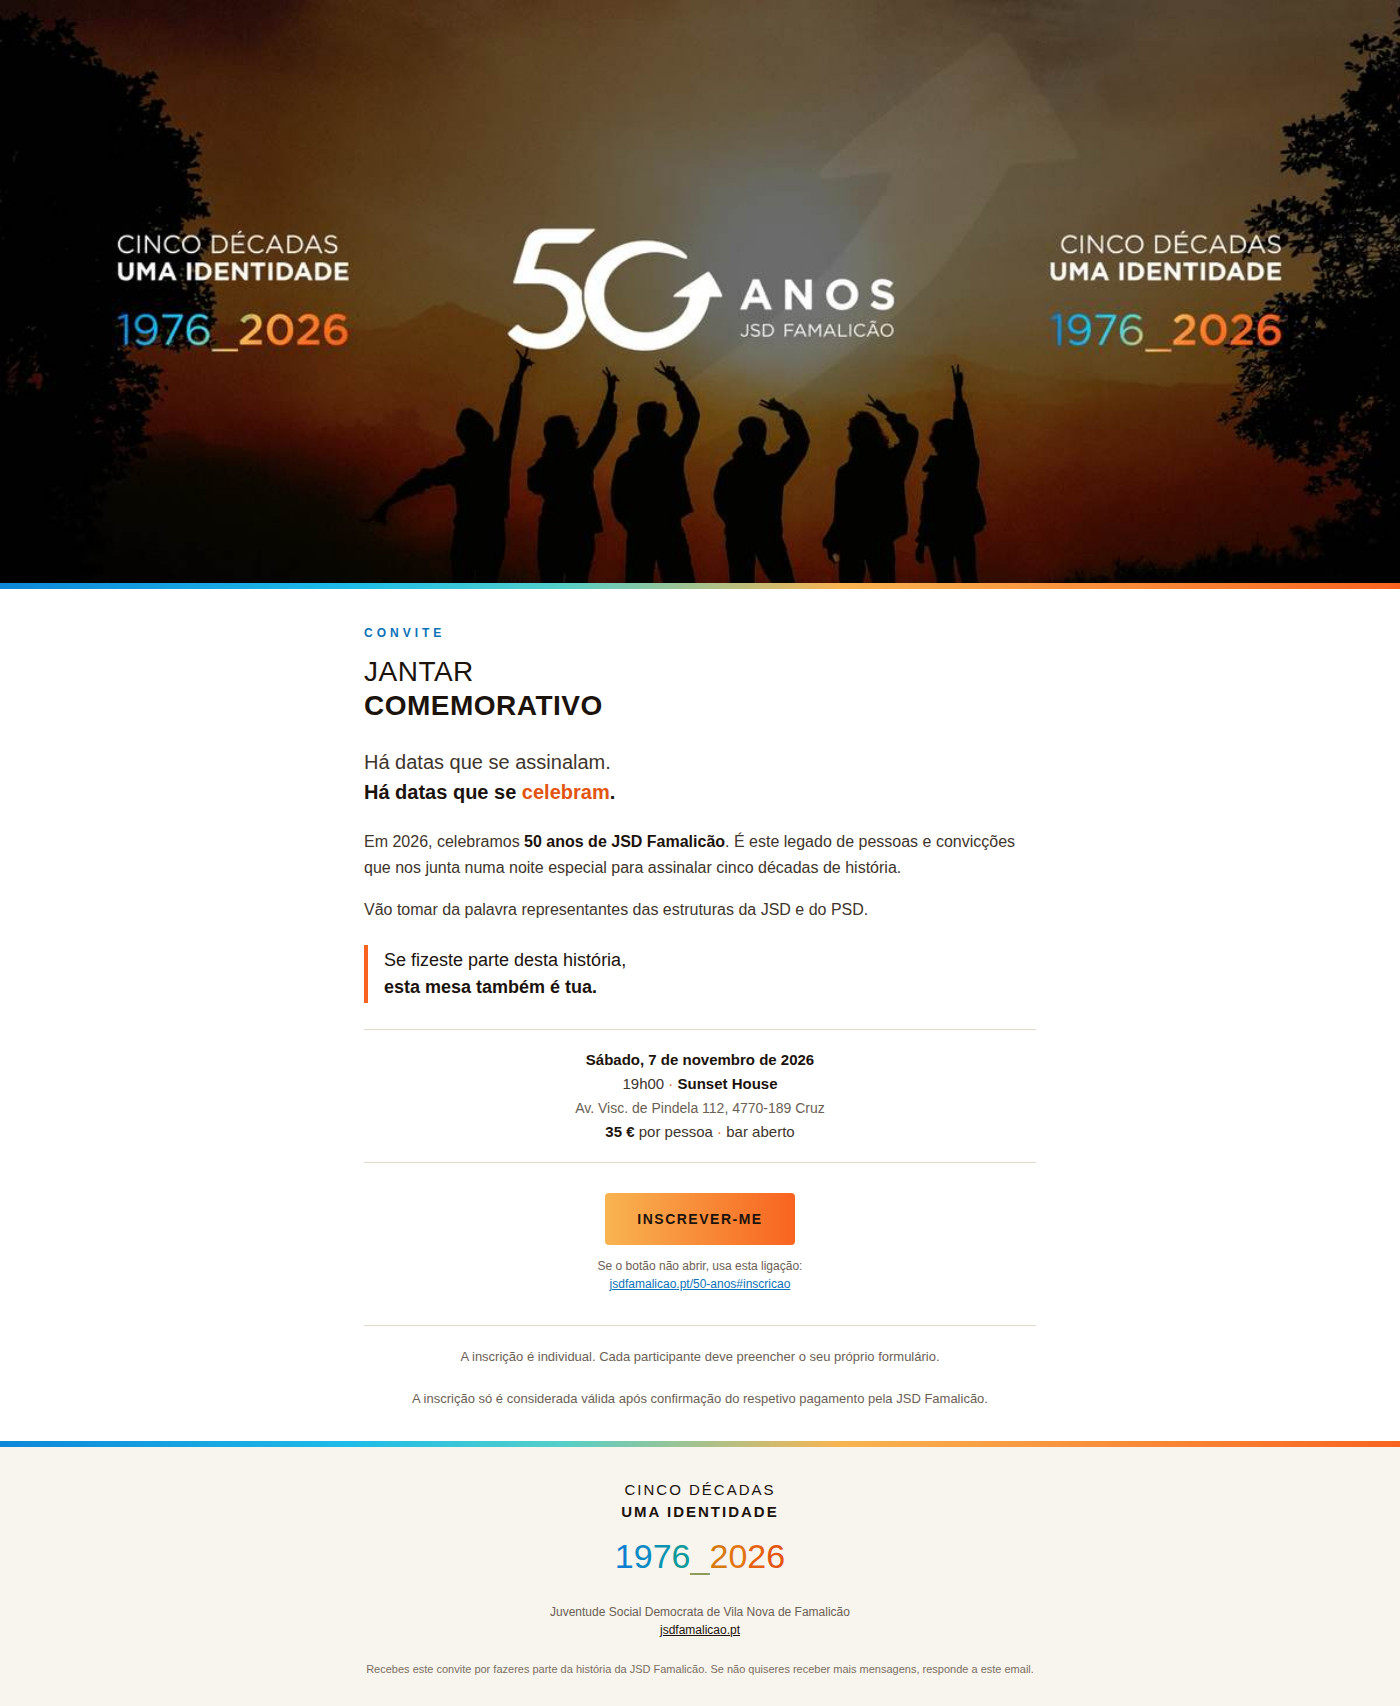
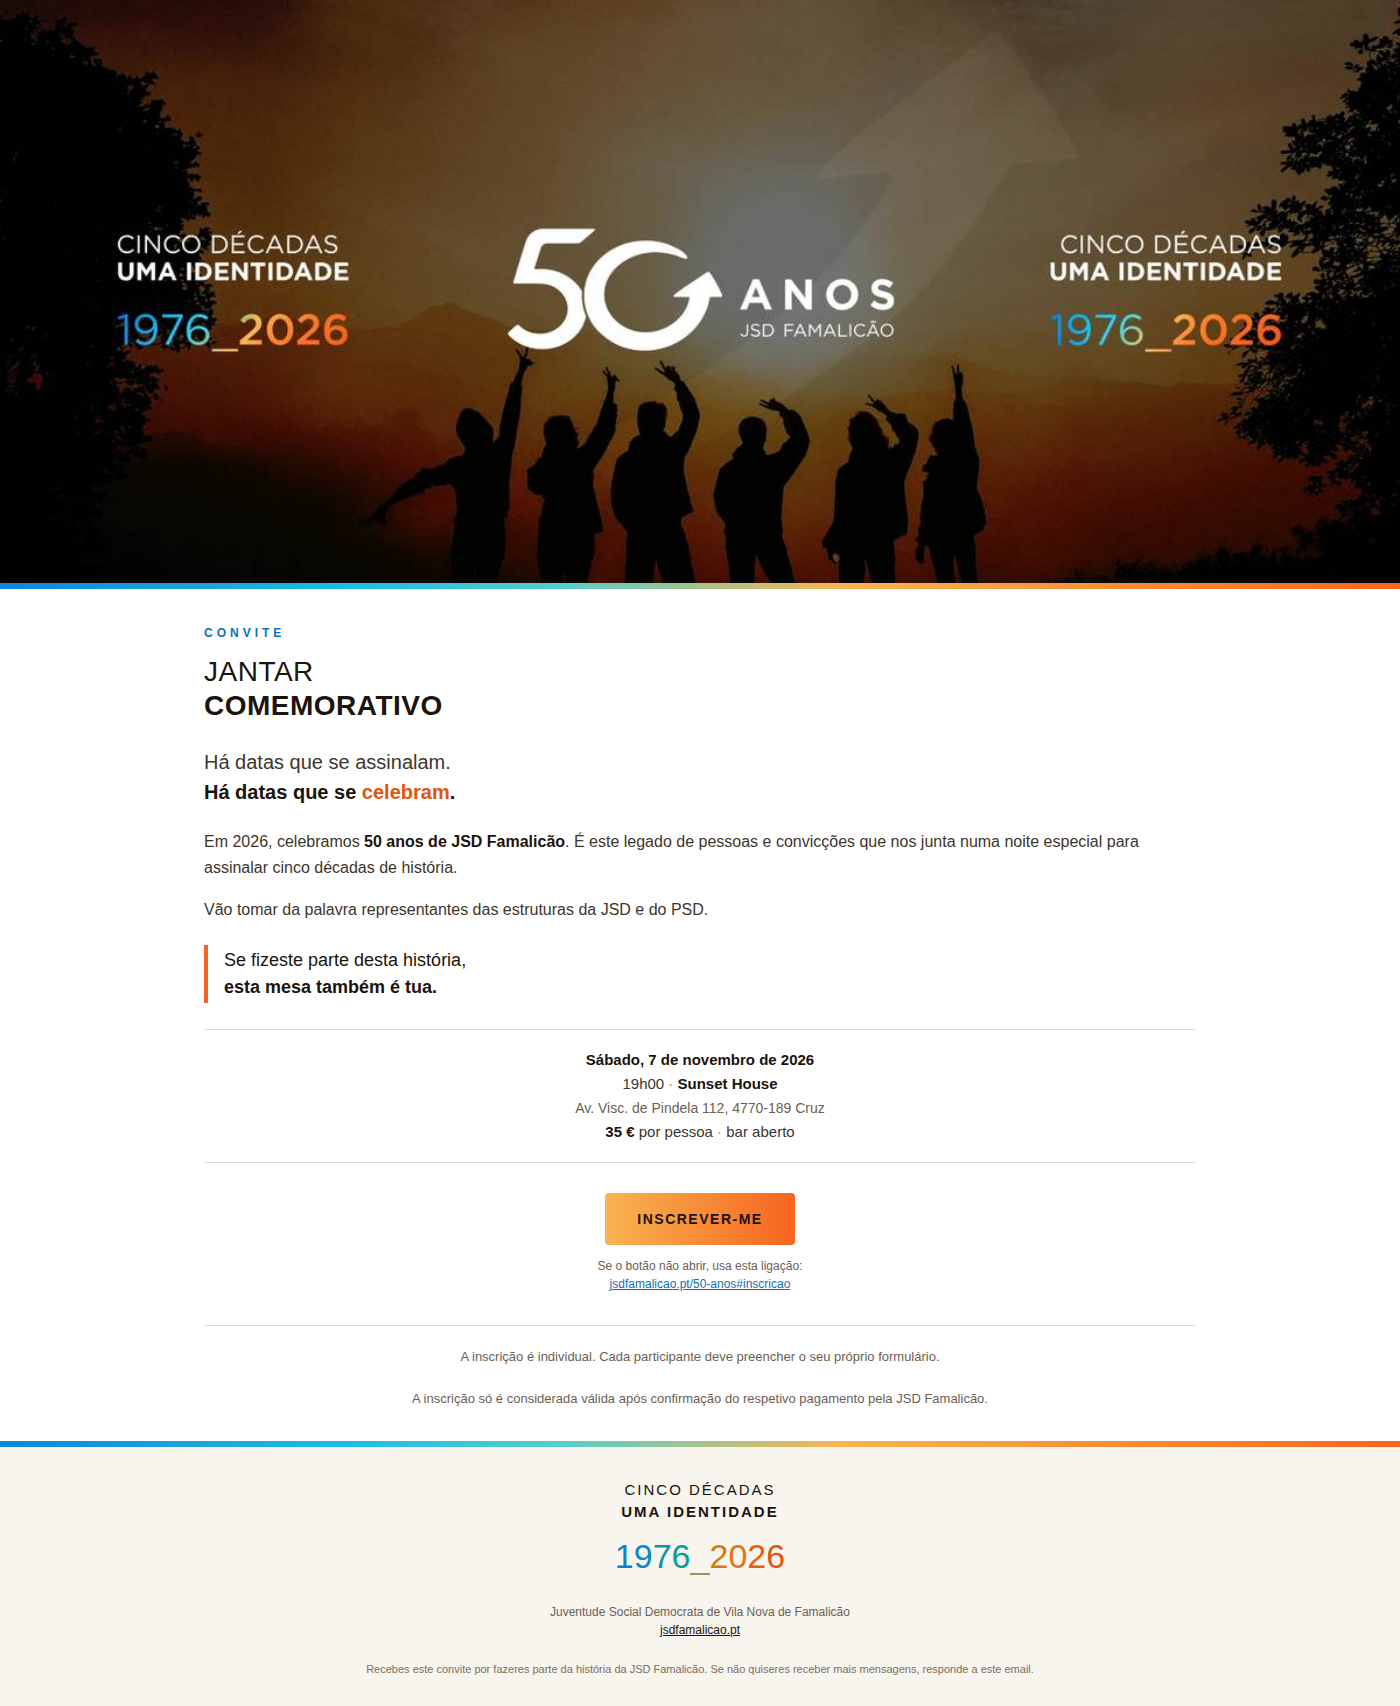
Email: coluna de texto mais larga no computador (1040 px)
Claude-Session: https://claude.ai/code/session_015mwyiP4waEoG1anDPcCGSk

Changed region(s): [[0.1536, 0.3728, 0.7986, 0.5903]]

diff --git a/email/jsd-50-anos/convite-jantar-50-anos-institucional.html b/email/jsd-50-anos/convite-jantar-50-anos-institucional.html
@@ -9,7 +9,7 @@
 </head>
 
 <!-- Largura total: o banner e as barras ocupam o ecrã todo; o texto fica numa coluna
-     de até 720 px (fundo branco dos dois lados, sem caixa nem margens cinzentas).
+     de até 1040 px (fundo branco dos dois lados, sem caixa nem margens cinzentas).
      Sem <style>: todas as medidas estão inline e servem telemóvel e computador,
      porque o Gmail descarta o <style> ao colar. O banner vai embutido em base64 (banner-largo.jpg). Gerado por src/gerar.py. -->
 
@@ -39,7 +39,7 @@
     <!-- Conteúdo -->
     <tr>
       <td align="center" style="padding:0;">
-        <table role="presentation" width="720" cellpadding="0" cellspacing="0" border="0" style="width:100%; max-width:720px;">
+        <table role="presentation" width="1040" cellpadding="0" cellspacing="0" border="0" style="width:100%; max-width:1040px;">
 
           <tr>
             <td class="px" align="center" style="padding:36px 24px 4px 24px; font-family:Montserrat,'Helvetica Neue',Helvetica,Arial,sans-serif; text-align:center;">

diff --git a/email/jsd-50-anos/convite-jantar-50-anos.html b/email/jsd-50-anos/convite-jantar-50-anos.html
@@ -9,7 +9,7 @@
 </head>
 
 <!-- Largura total: o banner e as barras ocupam o ecrã todo; o texto fica numa coluna
-     de até 720 px (fundo branco dos dois lados, sem caixa nem margens cinzentas).
+     de até 1040 px (fundo branco dos dois lados, sem caixa nem margens cinzentas).
      Sem <style>: todas as medidas estão inline e servem telemóvel e computador,
      porque o Gmail descarta o <style> ao colar. O banner vai embutido em base64 (banner-largo.jpg). Gerado por src/gerar.py. -->
 
@@ -39,7 +39,7 @@
     <!-- Conteúdo -->
     <tr>
       <td align="center" style="padding:0;">
-        <table role="presentation" width="720" cellpadding="0" cellspacing="0" border="0" style="width:100%; max-width:720px;">
+        <table role="presentation" width="1040" cellpadding="0" cellspacing="0" border="0" style="width:100%; max-width:1040px;">
 
           <tr>
             <td class="px" style="padding:36px 24px 4px 24px; font-family:Montserrat,'Helvetica Neue',Helvetica,Arial,sans-serif;">

diff --git a/email/jsd-50-anos/src/gerar.py b/email/jsd-50-anos/src/gerar.py
@@ -20,7 +20,7 @@ def pagina(titulo, preheader, corpo, botao, notas, rodape_extra):
 </head>
 
 <!-- Largura total: o banner e as barras ocupam o ecrã todo; o texto fica numa coluna
-     de até 720 px (fundo branco dos dois lados, sem caixa nem margens cinzentas).
+     de até 1040 px (fundo branco dos dois lados, sem caixa nem margens cinzentas).
      Sem <style>: todas as medidas estão inline e servem telemóvel e computador,
      porque o Gmail descarta o <style> ao colar. O banner vai embutido em base64 (banner-largo.jpg). Gerado por src/gerar.py. -->
 
@@ -50,7 +50,7 @@ def pagina(titulo, preheader, corpo, botao, notas, rodape_extra):
     <!-- Conteúdo -->
     <tr>
       <td align="center" style="padding:0;">
-        <table role="presentation" width="720" cellpadding="0" cellspacing="0" border="0" style="width:100%; max-width:720px;">
+        <table role="presentation" width="1040" cellpadding="0" cellspacing="0" border="0" style="width:100%; max-width:1040px;">
 {corpo}
 
           <!-- Botão -->
